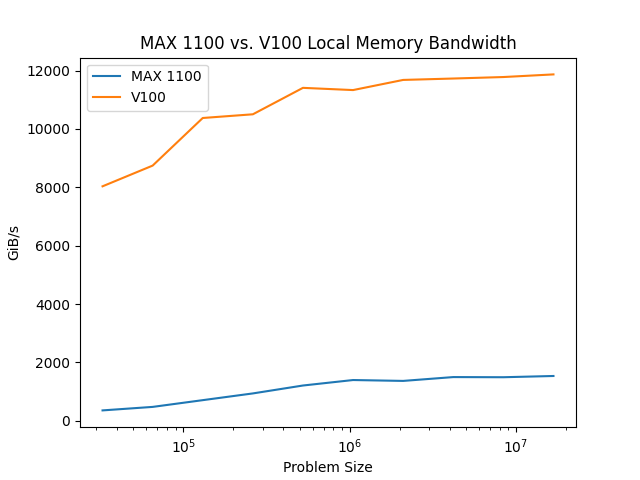
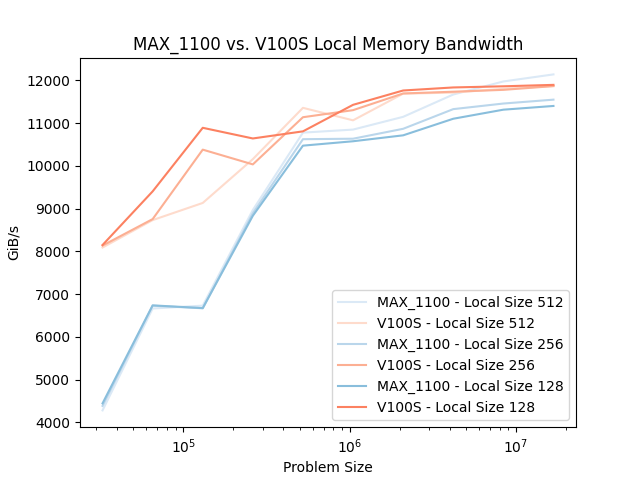
updated local memory chart

diff --git a/scripts/plots/local_mem.py b/scripts/plots/local_mem.py
@@ -1,4 +1,4 @@
-from plot_utils import check_double_input
+from plot_utils import check_double_input, get_double_gpu_name
 import pandas as pd
 import matplotlib.pyplot as plt
 import numpy as np
@@ -6,22 +6,43 @@ from matplotlib.cm import ScalarMappable
 from matplotlib.colors import Normalize
 from sklearn.preprocessing import MinMaxScaler
 from scipy.stats import hmean
+import seaborn as sns  # Import seaborn for color palettes
 
 data_gpu1, data_gpu2, out_file = check_double_input()
+name1, name2 = get_double_gpu_name()
 
-mean_gpu1 = data_gpu1.groupby("problem-size")["run-time-throughput"].apply(lambda x: hmean(x))
-data_gpu1 = data_gpu1[data_gpu1["bench-name"] == 'MicroBench_LocalMem_fp32_4096']
-mean_gpu2 = data_gpu2.groupby("problem-size")["run-time-throughput"].apply(lambda x: hmean(x))
-data_gpu2 = data_gpu2[data_gpu2["bench-name"] == 'MicroBench_LocalMem_fp32_4096']
+# Create a dictionary to map GPU names to colors
+gpu_palette = {name1: sns.color_palette("Blues"), name2: sns.color_palette("Reds")}
 
-plt.plot(mean_gpu1.index, mean_gpu1.values, label="MAX 1100")
-plt.plot(mean_gpu2.index, mean_gpu2.values, label="V100")
+# Group the data by 'problem-size' and 'local-size'
+grouped_gpu1 = data_gpu1.groupby(["problem-size", "local-size"])["run-time-throughput"].apply(lambda x: hmean(x))
+grouped_gpu2 = data_gpu2.groupby(["problem-size", "local-size"])["run-time-throughput"].apply(lambda x: hmean(x))
+
+# Get unique 'problem-size' values for x-axis and sort them
+problem_sizes = sorted(data_gpu1["problem-size"].unique())
+
+# Plot a separate line for each 'local-size'
+for idx, local_size in enumerate(data_gpu1["local-size"].unique()):
+    # Get the color for each GPU, cycling through the palette
+    color1 = gpu_palette[name1][idx % len(gpu_palette[name1])]
+    color2 = gpu_palette[name2][idx % len(gpu_palette[name2])]
+    
+    # Filter data for the current 'local-size'
+    data_gpu1_local = grouped_gpu1.xs(local_size, level="local-size")
+    data_gpu2_local = grouped_gpu2.xs(local_size, level="local-size")
+    
+    # Sort the data by 'problem-size'
+    data_gpu1_local = data_gpu1_local.reindex(problem_sizes)
+    data_gpu2_local = data_gpu2_local.reindex(problem_sizes)
+    
+    plt.plot(problem_sizes, data_gpu1_local.values, label=f"{name1} - Local Size {local_size}", color=color1)
+    plt.plot(problem_sizes, data_gpu2_local.values, label=f"{name2} - Local Size {local_size}", color=color2)
 
 # Aggiungi etichette e titolo al grafico
 plt.xlabel("Problem Size")
 plt.xscale('log')
 plt.ylabel("GiB/s")
-plt.title("MAX 1100 vs. V100 Local Memory Bandwidth")
+plt.title(f"{name1} vs. {name2} Local Memory Bandwidth")
 
 # Aggiungi una legenda
 plt.legend()
